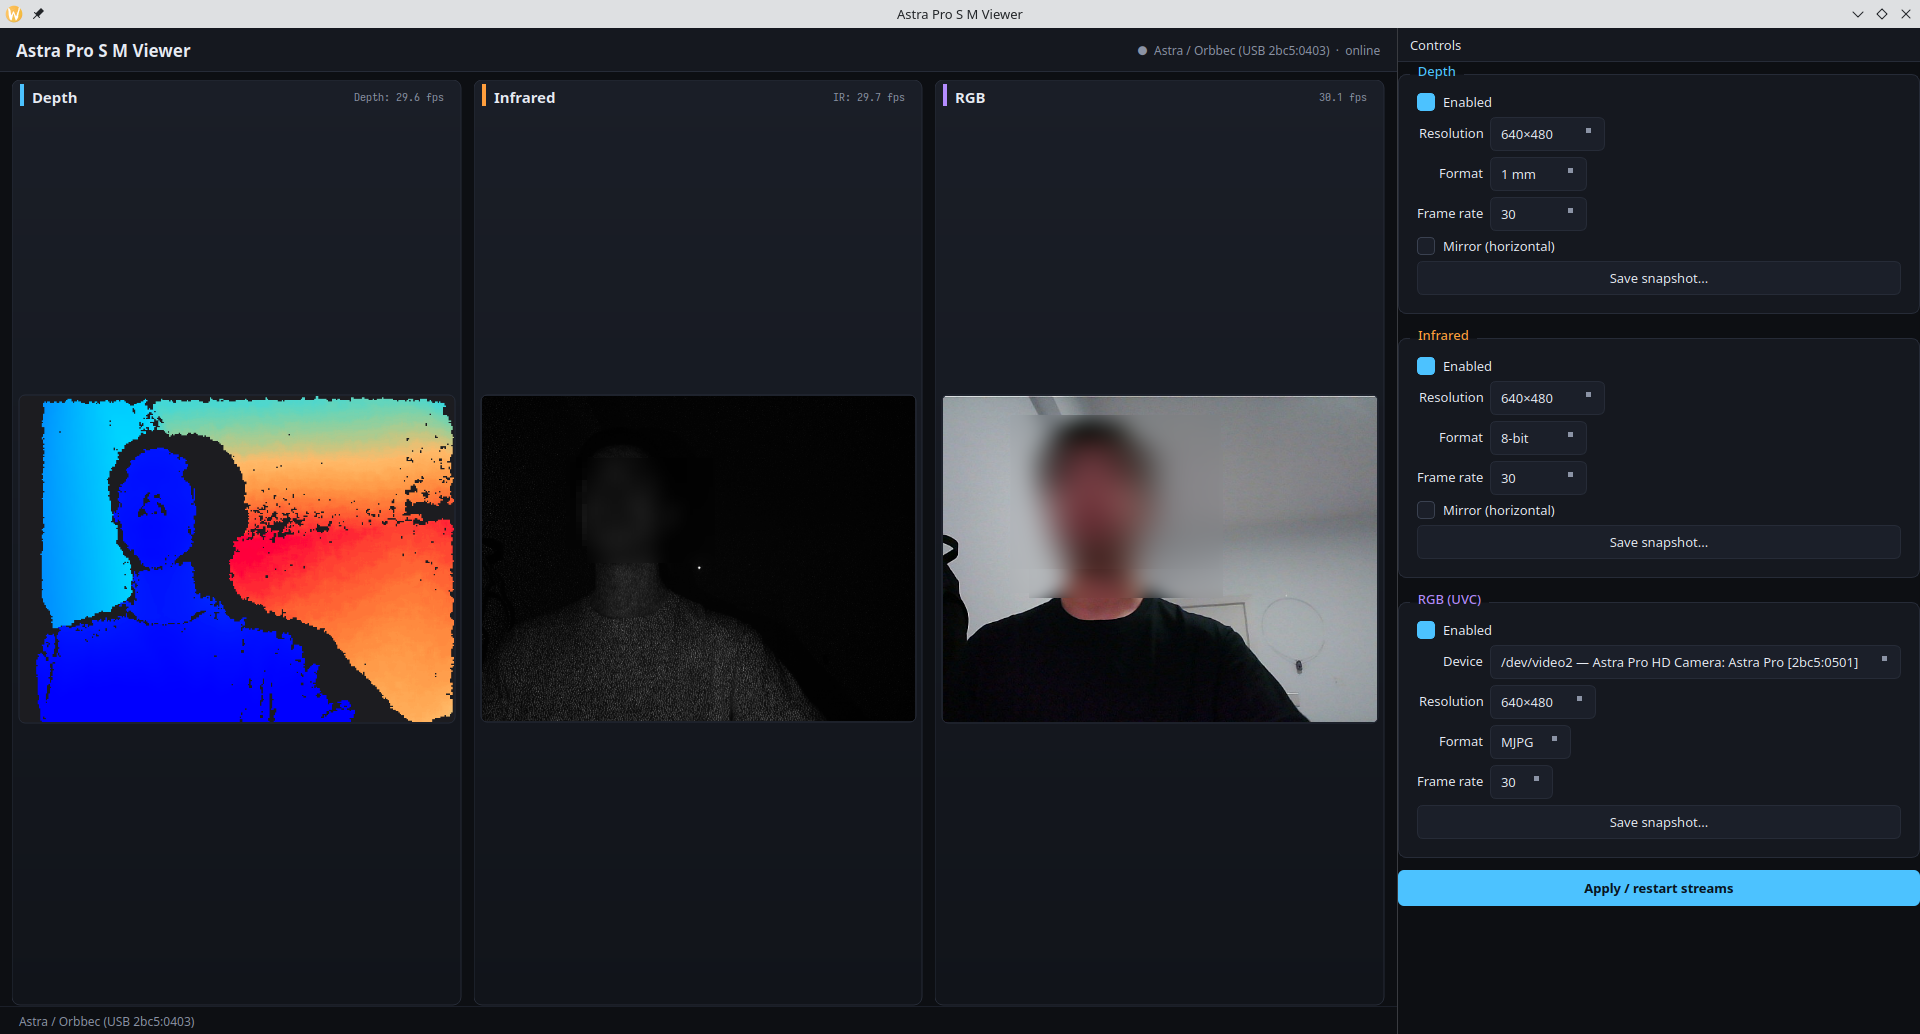
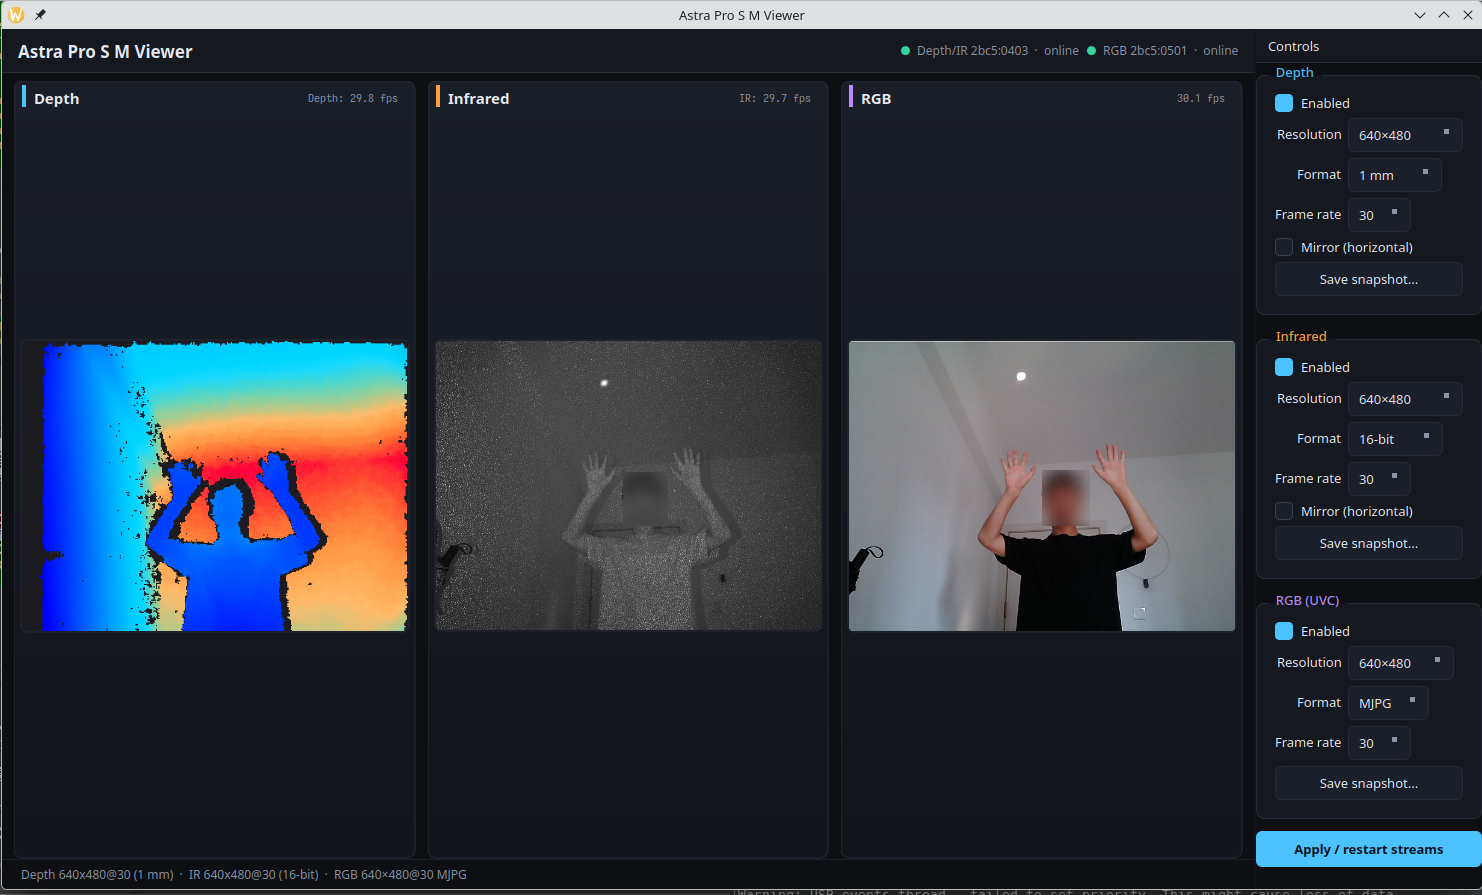
Show both USB devices in the header; status bar reports modes
Astra Pro S M is two USB devices (depth/IR MCU 2bc5:0403 and RGB UVC
2bc5:0501) but the header only showed the OpenNI2 one. Give each its own
badge with a status dot, and drop the duplicated VID:PID from the status
bar, which now summarises the running modes instead.

diff --git a/src/MainWindow.cpp b/src/MainWindow.cpp
@@ -15,6 +15,7 @@
 #include <QPushButton>
 #include <QSettings>
 #include <QSignalBlocker>
+#include <QStringList>
 #include <QVBoxLayout>
 
 namespace {
@@ -39,6 +40,24 @@ QString astraRgbDevice()
             return d.deviceFile;
     }
     return {};
+}
+
+// Astra Pro S M is two USB devices: the depth/IR MCU (2bc5:0403, OpenNI2)
+// and the RGB UVC camera (2bc5:0501). Both are shown in the header.
+constexpr int kAstraDepthPid = 0x0403;
+
+QString usbId(int vid, int pid)
+{
+    return QString("%1:%2")
+        .arg(vid, 4, 16, QChar('0'))
+        .arg(pid, 4, 16, QChar('0'));
+}
+
+// Header badge: coloured status dot + device label + state.
+QString badgeText(const QColor& dot, const QString& device, const QString& state)
+{
+    return QString("<span style='color:%1'>●</span>&nbsp; %2 &nbsp;·&nbsp; %3")
+        .arg(dot.name(), device, state);
 }
 
 // Select the combo entry whose data(role) equals value; no-op if absent.
@@ -150,10 +169,26 @@ QWidget* MainWindow::buildHeader()
 
     h->addStretch(1);
 
-    deviceBadge_ = new QLabel(tr("●  not connected"));
+    deviceBadge_ = new QLabel;
     deviceBadge_->setObjectName("deviceBadge");
     h->addWidget(deviceBadge_);
+
+    rgbBadge_ = new QLabel;
+    rgbBadge_->setObjectName("deviceBadge");
+    h->addWidget(rgbBadge_);
+
+    setDeviceBadges(false, false);
     return header;
+}
+
+void MainWindow::setDeviceBadges(bool depthOnline, bool rgbOnline)
+{
+    const QString depthDev = tr("Depth/IR %1").arg(usbId(RgbCamera::kOrbbecVid, kAstraDepthPid));
+    const QString rgbDev = tr("RGB %1").arg(usbId(RgbCamera::kOrbbecVid, RgbCamera::kAstraRgbPid));
+    deviceBadge_->setText(badgeText(depthOnline ? Accent::ok : Accent::warn, depthDev,
+                                    depthOnline ? tr("online") : tr("offline")));
+    rgbBadge_->setText(badgeText(rgbOnline ? Accent::ok : Accent::warn, rgbDev,
+                                 rgbOnline ? tr("online") : tr("not found")));
 }
 
 QWidget* MainWindow::buildControls()
@@ -566,13 +601,13 @@ void MainWindow::restartAll()
     bool rgbOn = rgbEnableChk_->isChecked();
 
     // --- OpenNI2: depth + IR ---
+    OpenNICamera::Mode depthMode, irMode;
     if (!oni_.isOpen() && !oni_.open()) {
+        setDeviceBadges(false, !rgbDevice_.isEmpty());
         QMessageBox::warning(this, tr("OpenNI2"),
                              tr("Cannot open depth device:\n%1").arg(oni_.lastError()));
     } else {
-        deviceBadge_->setText(tr("●  %1  ·  online").arg(oni_.deviceInfo()));
-        statusLabel_->setText(oni_.deviceInfo());
-
+        setDeviceBadges(true, !rgbDevice_.isEmpty());
         const bool first = (depthResCombo_->count() == 0);
         if (first) {
             populateResCombo(depthResCombo_, openni::SENSOR_DEPTH);
@@ -594,8 +629,8 @@ void MainWindow::restartAll()
             irOn = irEnableChk_->isChecked();
             rgbOn = rgbEnableChk_->isChecked();
         }
-        const auto depthMode = currentDepthMode();
-        const auto irMode = currentIrMode();
+        depthMode = currentDepthMode();
+        irMode = currentIrMode();
         if (!oni_.startStreams(depthOn, depthMode, irOn, irMode)) {
             qWarning() << "stream start failed:" << oni_.lastError();
             statusLabel_->setText(oni_.lastError());
@@ -627,6 +662,8 @@ void MainWindow::restartAll()
         rgbDevice_ = dev;
         populateRgbModes();
     }
+    setDeviceBadges(oni_.isOpen(), !rgbDevice_.isEmpty());
+
     // Only restart the UVC stream when its actual config changed: toggling
     // depth/IR also calls restartAll(), and re-opening UVC would drop frames.
     RgbConfig want;
@@ -636,6 +673,20 @@ void MainWindow::restartAll()
     want.w = rgbResCombo_->currentData(RoleW).toInt();
     want.h = rgbResCombo_->currentData(RoleH).toInt();
     want.fps = rgbFpsCombo_->currentData(RoleFps).toInt();
+
+    // Status bar: running mode summary (the header already carries VID:PID).
+    // Transient messages (errors, saved path) stay until one replaces them.
+    QStringList parts;
+    parts << (depthOn ? tr("Depth %1").arg(depthMode.toString()) : tr("Depth off"));
+    parts << (irOn ? tr("IR %1").arg(irMode.toString()) : tr("IR off"));
+    parts << (want.enabled ? tr("RGB %1×%2@%3 %4")
+                                 .arg(want.w).arg(want.h).arg(want.fps).arg(want.fmt)
+                           : tr("RGB off"));
+    const QString summary = parts.join(QStringLiteral("  ·  "));
+    if (statusLabel_->text().isEmpty() || statusLabel_->text() == defaultStatus_)
+        statusLabel_->setText(summary);
+    defaultStatus_ = summary;
+
     if (want == rgbConfig_)
         return;
 

diff --git a/src/MainWindow.h b/src/MainWindow.h
@@ -27,6 +27,7 @@ private slots:
 private:
     QWidget* buildControls();
     QWidget* buildHeader();
+    void setDeviceBadges(bool depthOnline, bool rgbOnline);
     void populateResCombo(QComboBox* cb, openni::SensorType type);
     void populateFmtCombo(QComboBox* cb, openni::SensorType type);
     void populateFpsCombo(QComboBox* cb, openni::SensorType type, int w, int h,
@@ -49,7 +50,9 @@ private:
     StreamView* irView_ = nullptr;
     StreamView* rgbView_ = nullptr;
     QLabel* statusLabel_ = nullptr;
-    QLabel* deviceBadge_ = nullptr;
+    QString defaultStatus_; // device summary currently shown in the status bar
+    QLabel* deviceBadge_ = nullptr; // depth/IR MCU (2bc5:0403)
+    QLabel* rgbBadge_ = nullptr;    // RGB UVC camera (2bc5:0501)
 
     // Controls.
     QCheckBox* depthEnableChk_ = nullptr;

diff --git a/README.md b/README.md
@@ -41,9 +41,3 @@ cmake --build build
 3. **本机内核 sysfs 无 `format` 文件**：区分 V4L2 采集节点与 metadata 节点用 `/sys/class/video4linux/videoN/index`（0 = 采集，1 = metadata），见 `RgbCamera::listDevices`。
 4. 驱动广播的部分分辨率/格式组合无法启动（如 1280×720）；界面列出设备广播的全部组合，选中不可用组合时流启动失败、状态栏报错。
 5. **镜像（Mirror）**：Depth / IR 均支持水平镜像，但驱动 `STREAM_PROPERTY_MIRRORING` 语义是反的——`setMirroringEnabled(false)` 才产生翻转（默认 `true`=不翻转），且该属性要在流 `start()` **之后**动态设置才生效（start 前设置会被忽略）。`OpenNICamera::applyMirroring()` 已做映射。
-
-
-
-## TODO
-
-1. UI界面只显示了深度 VID/PID 2bc5:0403,实际硬件为双USB设备
